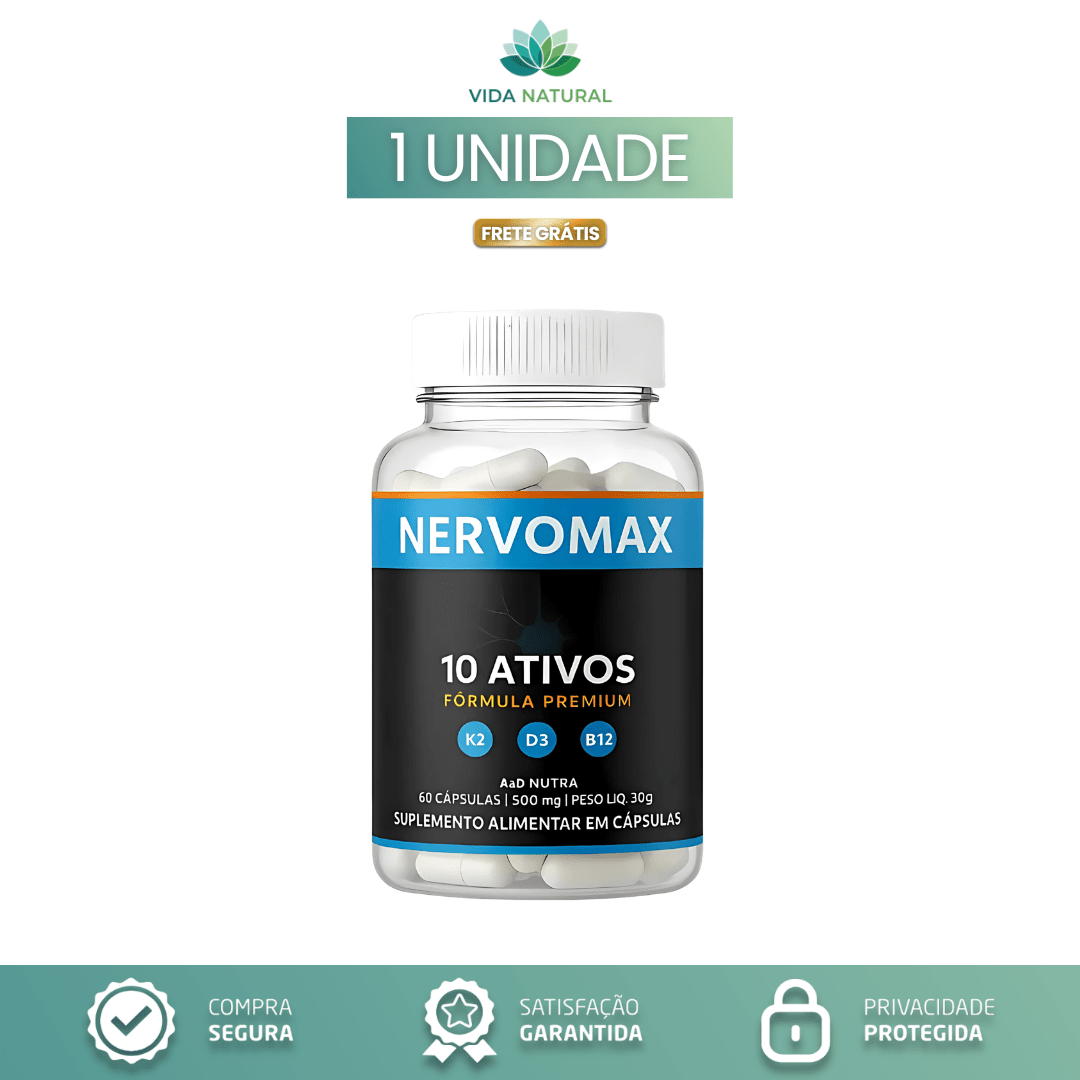
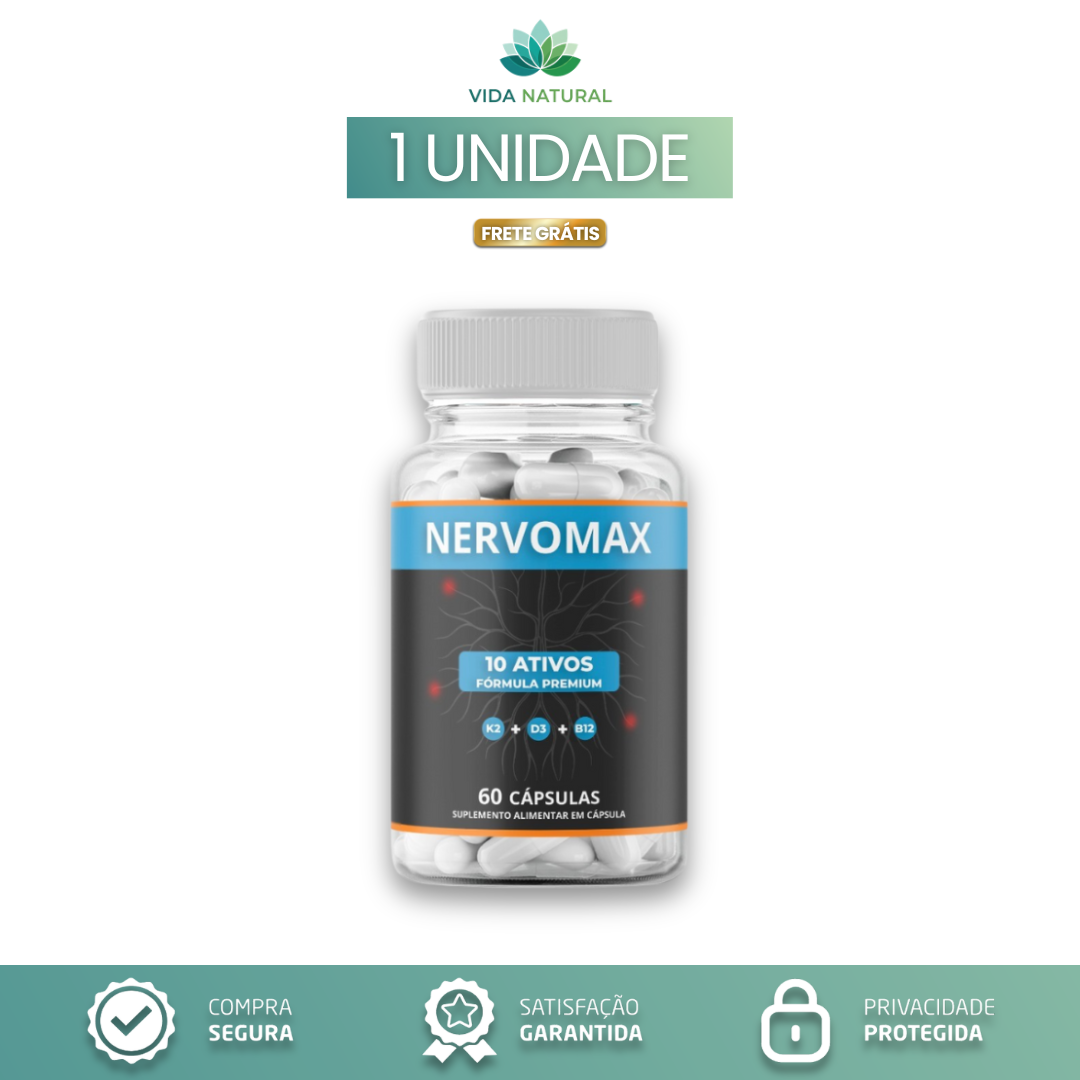
Nervomax: kits 1/2/3/4 LEVE 2/4/6/10 com precos e imagens novas; sem copy e sem avaliacao

Changed region(s): [[0.3361, 0.275, 0.6722, 0.8556]]

diff --git a/js/produtos.js b/js/produtos.js
@@ -610,21 +610,21 @@ const PRODUTOS = [
     ],
   },
   {
-    slug:"nervomax-oferta", nome:"Nervomax", tipo:"geral",
+    slug:"nervomax-oferta", semCopy:true, semAvaliacao:true, nome:"Nervomax", tipo:"geral",
     titulo:"Nervomax",
-    subtitulo:"Suplemento em capsulas — Mais leveza e conforto pras pernas, pes e maos",
+    subtitulo:"Suplemento em capsulas - Mais leveza e conforto pras pernas, pes e maos",
     badge:"MAIS VENDIDO", badgeColor:"#2E8B6F",
     variantes:[
-      { titulo:"COMPRE 2 LEVE 3", preco:20990, comparar:41990 },
-      { titulo:"COMPRE 3 LEVE 5", preco:31990, comparar:74990 },
-      { titulo:"COMPRE 4 LEVE 10", preco:53990, comparar:154990 },
-      { titulo:"1 UNIDADE", preco:14990 }
+      { titulo:"COMPRE 1 LEVE 2", preco:18990, comparar:37990 },
+      { titulo:"COMPRE 2 LEVE 4", preco:31990, comparar:75990 },
+      { titulo:"COMPRE 3 LEVE 6", preco:41990, comparar:113990 },
+      { titulo:"COMPRE 4 LEVE 10", preco:53990, comparar:154990, popular:true }
     ],
     imagens:[
-      "/img/produtos/nervomax/1.png",
-      "/img/produtos/nervomax/2.png",
-      "/img/produtos/nervomax/3.png",
-      "/img/produtos/nervomax/4.png"
+      "/img/produtos/nervomax/nervomax1leve2.png",
+      "/img/produtos/nervomax/nervomax2leve4.png",
+      "/img/produtos/nervomax/nervomax3leve6.png",
+      "/img/produtos/nervomax/nervomax4leve10.png"
     ],
   },
   {